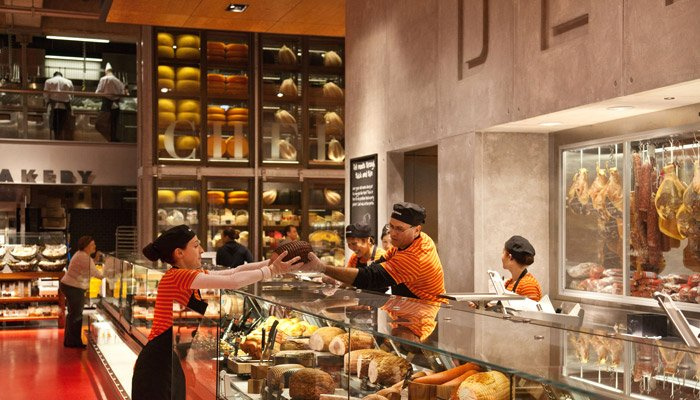
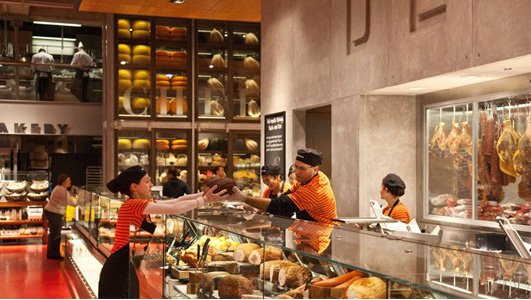
Fixed my image slider
Made all the images the same size and changed the shape of the buttons.

diff --git a/css/style.css b/css/style.css
@@ -283,25 +283,22 @@ margin: 30px 50px 30px 20px;
 #slider {
   position: relative;
   overflow: hidden;
-  margin: 20px 10% 20px auto;
-  border-radius: 4px;
-  width: auto;
+  margin: 0 auto;
+  width: 60%;
+  align-items: center;
 }
 
 #slider ul {
   position: absolute;
-  margin: 0;
+  margin left: 10%;
   padding: 0;
-  height: 200px;
   list-style: none;
 }
 #slider ul li {
-  position: relative;
   display: block;
   float: left;
   margin: 0;
   padding: 0;
-  width: 80%;
   height: 300px;
   background: #ccc;
   text-align: center;
@@ -312,9 +309,8 @@ a.controlPrev, a.controlNext {
   top: 40%;
   z-index: 999;
   display: block;
-  padding: 4% 3%;
-  width: auto;
-  height: auto;
+  width: 50px;
+  height: 50px;
   background: #2a2a2a;
   color: #fff;
   text-decoration: none;
@@ -322,11 +318,16 @@ a.controlPrev, a.controlNext {
   font-size: 18px;
   opacity: 0.8;
   cursor: pointer;
+  padding: 15px;
   }
   a.controlNext {
   float: right;
-  margin-left: 430px;
+  margin-left: 481px;
+  border-radius: 10px 0px 0px 10px;
   }
+a.controlPrev {
+  border-radius: 0px 10px 10px 0px;
+}
 
 footer {
   width: 90%;

diff --git a/news.html b/news.html
@@ -100,6 +100,10 @@
              <p>
                Lorem ipsum dolor sit amet, consectetur adipisicing elit, sed do eiusmod tempor incididunt ut labore et dolore magna aliqua. Ut enim ad minim veniam, quis nostrud exercitation ullamco laboris nisi ut aliquip ex ea commodo consequat. Duis aute irure dolor in reprehenderit in voluptate velit esse cillum dolore eu fugiat nulla pariatur. Excepteur sint occaecat cupidatat non proident, sunt in culpa qui officia deserunt mollit anim id est laborum.
              </p>
+             <form class="signUpForm" action="" method="save"> email:
+                <input id= "entry">
+                <button id="signUp" name="Save">Sign Me Up!</button>
+             </form>
          </div>
        </section>
 

diff --git a/js/index.js b/js/index.js
@@ -55,7 +55,7 @@ $("#signUp").on('click', submitEmail);
        function moveLeft() {
            $('#slider ul').animate({
                left: + slideWidth
-           }, 400, function () {
+           }, 1000, function () {
                $('#slider ul li:last-child').prependTo('#slider ul');
                $('#slider ul').css('left', '');
            });
@@ -64,7 +64,7 @@ $("#signUp").on('click', submitEmail);
        function moveRight() {
            $('#slider ul').animate({
                left: - slideWidth
-           }, 400, function () {
+           }, 1000, function () {
                $('#slider ul li:first-child').appendTo('#slider ul');
                $('#slider ul').css('left', '');
            });

diff --git a/cheese.html b/cheese.html
@@ -24,13 +24,13 @@
      </div>
 
      <section class= "browserPage">
-             <div id="slider">
+             <div id="slider" style="width: 531px; height: 300px;">
                <a href="#" class="controlNext">>></a>
                <a href="#" class="controlPrev"><</a>
                  <ul>
                      <li><img src="images/cheese.jpg" alt="Cheese Table"/></li>
                      <li><img src="images/Cheeseroom.jpg" alt="Cheese Room"/></li>
-                     <li><img src="images/fromagerie.jpg" alt="Fromagerie" height=auto width=auto /></li>
+                     <li><img src="images/fromagerie.jpg" alt="Fromagerie"/></li>
                  </ul>
              </div>
 
